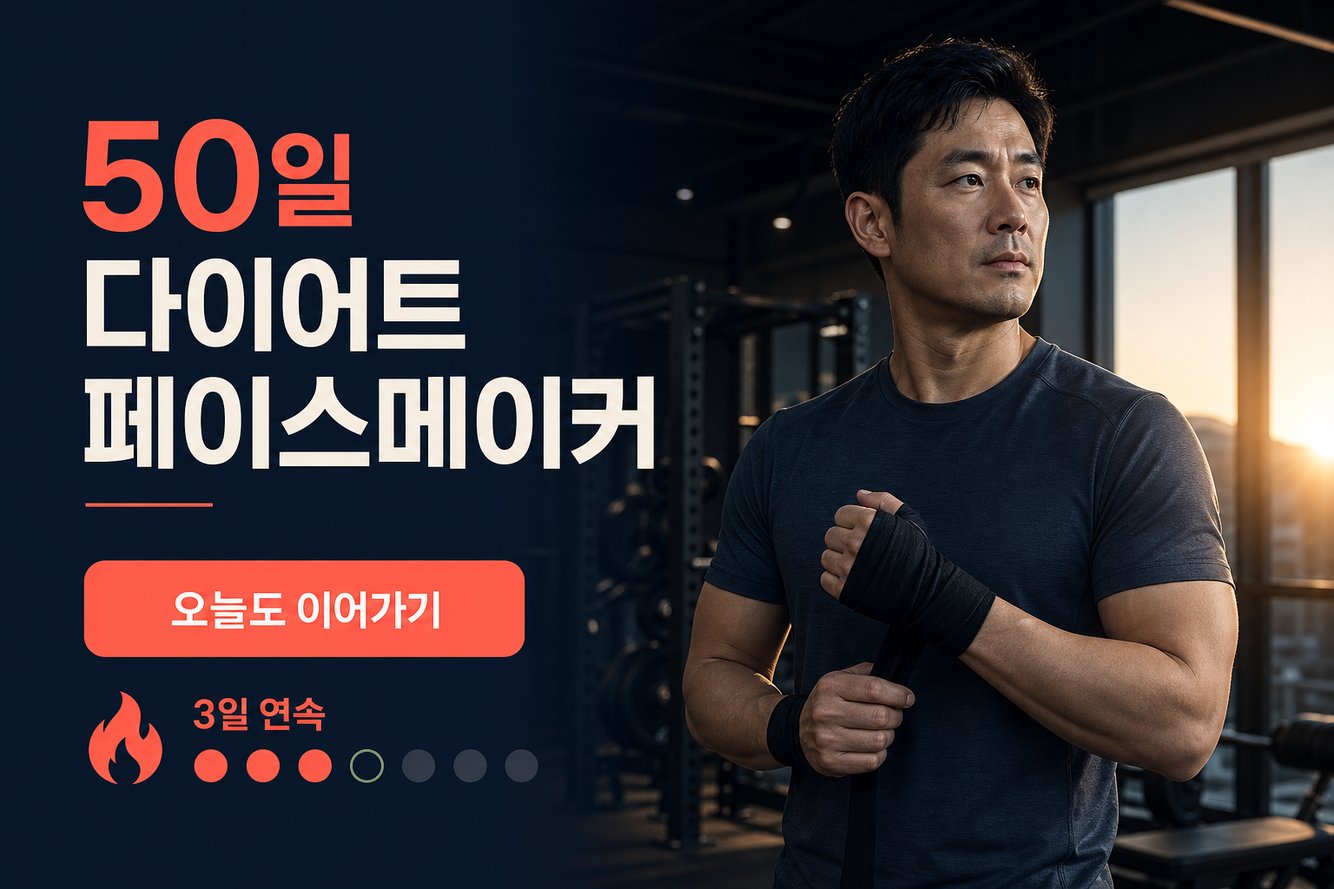
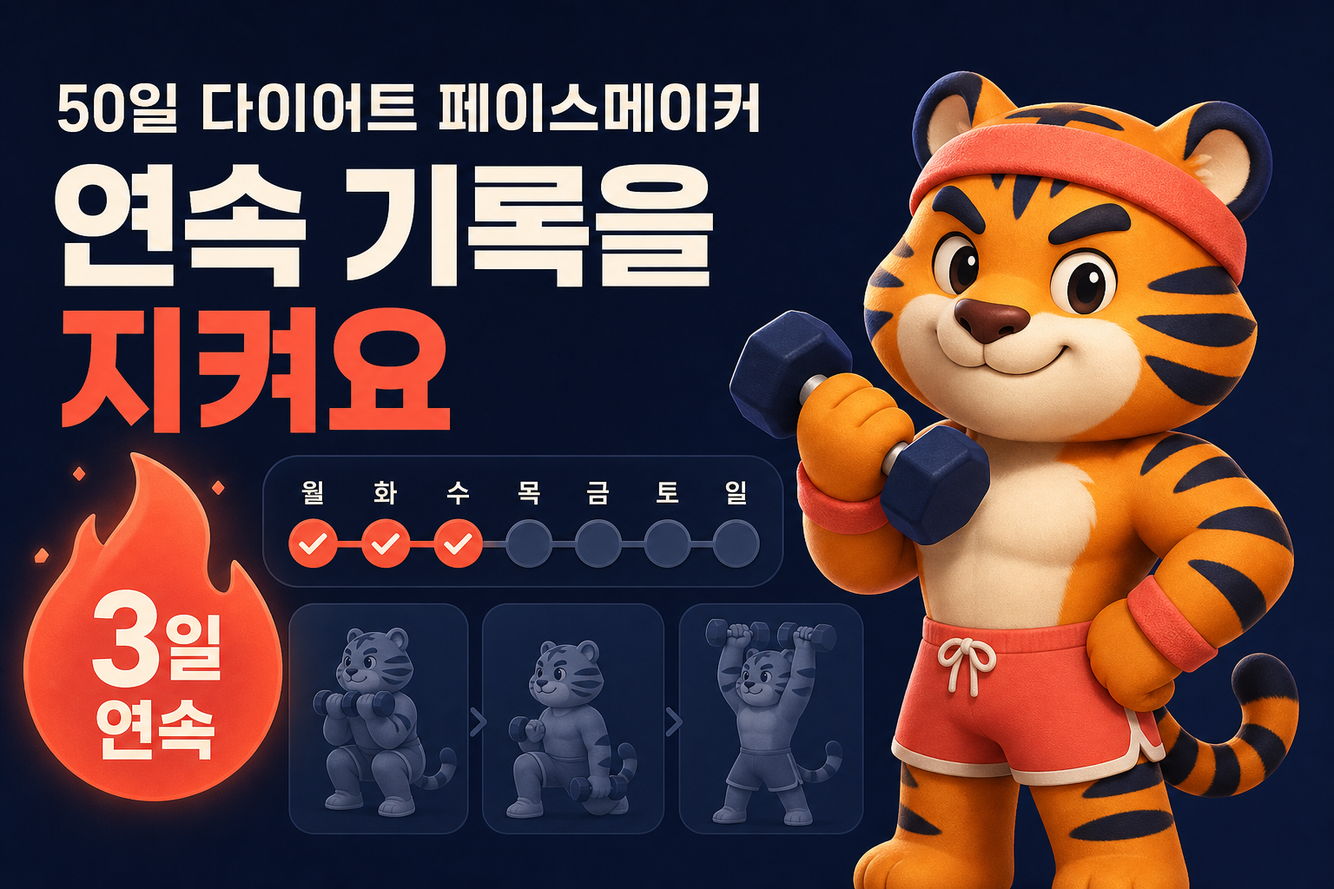
Add time-aware coach and exercise form guides

diff --git a/app/page.tsx b/app/page.tsx
@@ -7,6 +7,7 @@ type Persona = "T" | "F";
 type WeightEntry = { day: number; weight: number };
 type LoadEntry = { day: number; name: string; kg: number };
 type Exercise = { name: string; detail: string; weighted?: boolean };
+type BodyStat = { date: string; day: number; weight: number; muscle: number; bodyFat: number; bmi: number };
 
 const INITIAL_WEIGHTS: WeightEntry[] = [
   { day: 1, weight: 74 }, { day: 3, weight: 73.7 }, { day: 5, weight: 73.5 },
@@ -45,9 +46,40 @@ const ROUTINES: Record<string, Exercise[]> = {
   ],
 };
 
+const OPTIONAL: Record<string, Exercise[]> = {
+  push: [
+    { name: "체스트 플라이", detail: "가볍게 3세트 × 12—15회", weighted: true },
+    { name: "사이드 레터럴 레이즈", detail: "반동 없이 3세트 × 12—15회", weighted: true },
+  ],
+  pull: [
+    { name: "페이스 풀", detail: "어깨 뒤쪽 3세트 × 12—15회", weighted: true },
+    { name: "백 익스텐션", detail: "허리 중립 3세트 × 12회" },
+  ],
+  legs: [
+    { name: "힙 어브덕션", detail: "둔근 집중 3세트 × 15회", weighted: true },
+    { name: "카프 레이즈", detail: "정점 정지 3세트 × 15회", weighted: true },
+  ],
+  pain: [
+    { name: "페이스 풀", detail: "앉아서 3세트 × 15회", weighted: true },
+    { name: "데드버그", detail: "천천히 좌우 10회 × 3세트" },
+  ],
+};
+
+const EXERCISE_GUIDES: Record<string, { image: string; focus: string; steps: string[]; caution: string }> = {
+  벤치프레스: { image: "/exercise-bench-press.png", focus: "가슴 · 삼두 · 전면 어깨", steps: ["눈이 바 아래 오도록 눕고 발·엉덩이·등·머리를 안정시켜요.", "어깨뼈를 뒤와 아래로 고정하고 바를 가슴 중앙으로 천천히 내려요.", "손목 아래에 팔꿈치를 두고 발로 바닥을 밀며 곧게 올려요."], caution: "엄지까지 감싼 그립을 쓰고, 어깨가 들리거나 엉덩이가 뜨면 중량을 낮추세요." },
+  숄더프레스: { image: "/exercise-shoulder-press.png", focus: "어깨 · 삼두", steps: ["손잡이가 어깨 높이에 오도록 좌석을 맞추고 등을 붙여요.", "손목과 팔꿈치를 수직으로 두고 머리 위로 부드럽게 밀어요.", "허리를 과하게 꺾지 말고 팔꿈치를 잠그기 직전에 멈춰요."], caution: "목 뒤로 밀지 말고 통증 없는 범위에서만 움직이세요." },
+  랫풀다운: { image: "/exercise-lat-pulldown.png", focus: "광배근 · 등", steps: ["허벅지 패드를 고정하고 배에 힘을 준 채 바를 잡아요.", "어깨를 먼저 아래로 내린 뒤 상체를 30도 이내로만 기울여요.", "바를 윗가슴 쪽으로 당기고 반동 없이 천천히 되돌려요."], caution: "바를 목 뒤로 당기거나 허리를 크게 젖히지 마세요." },
+  "시티드 로우": { image: "/exercise-seated-row.png", focus: "등 중앙 · 광배근", steps: ["무릎을 살짝 굽히고 허리를 중립으로 세워 손잡이를 잡아요.", "몸통을 고정한 채 팔꿈치를 뒤로 보내며 아랫가슴 쪽으로 당겨요.", "등을 둥글게 말지 않고 팔을 천천히 펴며 돌아가요."], caution: "몸을 앞뒤로 흔들어 중량을 당기지 마세요." },
+  레그프레스: { image: "/exercise-leg-press.png", focus: "대퇴사두근 · 둔근", steps: ["발을 어깨너비로 놓고 허리와 골반을 패드에 붙여요.", "무릎이 발끝 방향을 따라가게 하며 약 90도까지 천천히 내려요.", "발바닥 전체로 밀고 무릎이 완전히 잠기기 전에 멈춰요."], caution: "골반이 말려 들리거나 무릎이 안쪽으로 모이면 가동범위와 중량을 줄이세요." },
+  레그익스텐션: { image: "/exercise-leg-extension.png", focus: "대퇴사두근", steps: ["기구 회전축과 무릎 관절을 맞추고 패드를 발목 위에 놓아요.", "등을 붙인 채 정강이 패드를 부드럽게 들어 올려요.", "무릎을 세게 잠그지 않고 정점에서 멈춘 뒤 천천히 내려요."], caution: "무릎 앞쪽 통증이 있으면 중량과 가동범위를 즉시 줄이세요." },
+  레그컬: { image: "/exercise-leg-curl.png", focus: "햄스트링", steps: ["기구 회전축과 무릎을 맞추고 허벅지 패드를 고정해요.", "엉덩이가 들리지 않게 발꿈치를 아래와 뒤로 당겨요.", "가장 깊은 편안한 지점에서 멈춘 뒤 천천히 되돌려요."], caution: "반동을 쓰거나 허리를 과하게 꺾지 마세요." },
+};
+
 const DEFAULT_LOADS: Record<string, number> = {
   벤치프레스: 40, 숄더프레스: 20, 랫풀다운: 40, "시티드 로우": 35,
   레그프레스: 80, 레그익스텐션: 25, 레그컬: 25,
+  "체스트 플라이": 25, "사이드 레터럴 레이즈": 5, "페이스 풀": 20,
+  "힙 어브덕션": 30, "카프 레이즈": 40,
 };
 
 const DAILY = [
@@ -101,6 +133,10 @@ export default function Home() {
   const [freezePasses, setFreezePasses] = useState(1);
   const [activeDates, setActiveDates] = useState<string[]>([daysAgo(3), daysAgo(2), daysAgo(1)]);
   const [dailyOpen, setDailyOpen] = useState(false);
+  const [selectedGuide, setSelectedGuide] = useState<string | null>(null);
+  const [hour, setHour] = useState(9);
+  const [bodyStats, setBodyStats] = useState<BodyStat[]>([]);
+  const [bodyForm, setBodyForm] = useState({ weight: "71.8", muscle: "30.0", bodyFat: "22.0" });
   const [hydrated, setHydrated] = useState(false);
 
   const today = dateKey();
@@ -122,6 +158,7 @@ export default function Home() {
         setStreak(parsed.streak ?? 3);
         setFreezePasses(parsed.freezePasses ?? 1);
         setActiveDates(parsed.activeDates?.length ? parsed.activeDates : [daysAgo(3), daysAgo(2), daysAgo(1)]);
+        setBodyStats(parsed.bodyStats ?? []);
 
         const dates: string[] = parsed.activeDates ?? [];
         const last = [...dates].sort().at(-1);
@@ -135,13 +172,19 @@ export default function Home() {
       } catch { /* Keep safe defaults. */ }
     }
     if (localStorage.getItem("pace50-inspiration-date") !== today) setDailyOpen(true);
+    setHour(new Date().getHours());
     setHydrated(true);
   }, [today]);
 
   useEffect(() => {
+    const timer = window.setInterval(() => setHour(new Date().getHours()), 60_000);
+    return () => window.clearInterval(timer);
+  }, []);
+
+  useEffect(() => {
     if (!hydrated) return;
-    localStorage.setItem(STORAGE_KEY, JSON.stringify({ day, weights, travelMode, checks, nextPersona, loadHistory, loadInputs, streak, freezePasses, activeDates }));
-  }, [day, weights, travelMode, checks, nextPersona, loadHistory, loadInputs, streak, freezePasses, activeDates, hydrated]);
+    localStorage.setItem(STORAGE_KEY, JSON.stringify({ day, weights, travelMode, checks, nextPersona, loadHistory, loadInputs, streak, freezePasses, activeDates, bodyStats }));
+  }, [day, weights, travelMode, checks, nextPersona, loadHistory, loadInputs, streak, freezePasses, activeDates, bodyStats, hydrated]);
 
   const stageIndex = stageForDay(day);
   const currentWeight = weights.at(-1)?.weight ?? 74;
@@ -152,6 +195,7 @@ export default function Home() {
   const routineKind = cycleDay === 1 || cycleDay === 4 ? "push" : cycleDay === 2 || cycleDay === 5 ? "pull" : "legs";
   const routineLabel = routineKind === "push" ? "가슴 / 어깨" : routineKind === "pull" ? "등 / 코어" : "하체";
   const exercises = painMode ? ROUTINES.pain : ROUTINES[routineKind];
+  const optionalExercises = painMode ? OPTIONAL.pain : OPTIONAL[routineKind];
   const cardio: Exercise[] = painMode
     ? [{ name: "좌식 사이클", detail: "20분 · 통증 없는 강도" }]
     : [{ name: "천국의 계단", detail: "15분" }, { name: "런닝머신 걷기", detail: "15분" }];
@@ -178,6 +222,16 @@ export default function Home() {
     const history = loadHistory.filter((item) => item.name === name).sort((a, b) => a.day - b.day);
     return { name, first: history.at(0)?.kg, latest: history.at(-1)?.kg, count: history.length };
   }).filter((item) => item.count > 0);
+
+  const mascot = hour < 12
+    ? { state: "morning", label: "오전 코치", message: "좋은 아침! 체중만 먼저 기록하면 오늘 불꽃은 금방 지킬 수 있어요." }
+    : hour < 19
+      ? { state: "afternoon", label: "오후 코치", message: "아직 충분해요. 운동 한 세트만 시작하면 흐름이 다시 붙어요!" }
+      : hour < 22
+        ? { state: "night", label: "저녁 코치", message: "오늘이 얼마 안 남았어요. 딱 하나만 체크하고 편하게 쉬어요." }
+        : { state: "night urgent", label: "자정 임박", message: `제발… 자정 전에 하나만 기록해 주세요. 연속 ${streak}일을 잃을 순 없어요!` };
+  const guide = selectedGuide ? EXERCISE_GUIDES[selectedGuide] : null;
+  const bodyBmi = Number(bodyForm.weight) > 0 ? Number(bodyForm.weight) / (1.72 * 1.72) : 0;
 
   function markToday() {
     if (todayComplete) return;
@@ -236,6 +290,21 @@ export default function Home() {
     }
   }
 
+  function saveBodyStat(event: FormEvent) {
+    event.preventDefault();
+    const weight = Number(bodyForm.weight);
+    const muscle = Number(bodyForm.muscle);
+    const bodyFat = Number(bodyForm.bodyFat);
+    if (weight < 40 || weight > 150 || muscle < 10 || muscle > 80 || bodyFat < 3 || bodyFat > 60) {
+      setModal({ persona: "T", eyebrow: "주간 측정 확인", title: "수치를 다시 확인해 주세요", body: "체중 40—150kg, 근육량 10—80kg, 체지방률 3—60% 범위로 입력해 주세요." });
+      return;
+    }
+    const entry: BodyStat = { date: today, day, weight, muscle, bodyFat, bmi: weight / (1.72 * 1.72) };
+    setBodyStats((items) => [...items.filter((item) => item.date !== today), entry].sort((a, b) => a.date.localeCompare(b.date)));
+    markToday();
+    openCoach("주간 체성분 기록 완료", `BMI ${entry.bmi.toFixed(1)}, 근육량 ${muscle.toFixed(1)}kg, 체지방률 ${bodyFat.toFixed(1)}%를 저장했습니다. 주간 간격의 같은 조건 측정이 변화 확인에 유리합니다.`, "이번 주의 몸을 있는 그대로 기록했어요. 숫자는 평가가 아니라 다음 선택을 위한 지도예요.");
+  }
+
   return (
     <main className={travelMode ? "app travel-on" : "app"}>
       {travelMode && <div className="travel-banner"><span>여행 모드 · 오늘의 목표는 유지</span><strong>한 끼에 즐거움 하나</strong></div>}
@@ -262,11 +331,12 @@ export default function Home() {
           </section>
 
           <section className={todayComplete ? "streak-panel safe" : "streak-panel"} id="streak">
-            <div className="streak-flame">🔥</div>
+            <div className={`mascot-art ${mascot.state}`} role="img" aria-label={`${mascot.label} 호랑이 헬스 코치`} />
             <div className="streak-copy">
-              <p>연속 기록</p>
+              <p>🔥 {mascot.label} · 연속 기록</p>
               <h2>{todayComplete ? `오늘도 지켰어요. ${streak}일 연속!` : `오늘 기록하지 않으면 연속 ${streak}일을 잃게 돼요.`}</h2>
-              <span>{todayComplete ? "작은 행동 하나가 오늘의 불꽃을 지켰습니다." : "체중 기록이나 운동 한 세트만 완료해도 유지됩니다."}</span>
+              <span className="mascot-message">“{todayComplete ? "역시 해낼 줄 알았어요. 내일도 이 불꽃 그대로 만나요!" : mascot.message}”</span>
+              <small>{todayComplete ? "작은 행동 하나가 오늘의 불꽃을 지켰습니다." : "체중 기록이나 운동 한 세트만 완료해도 유지됩니다."}</small>
             </div>
             <div className="week-dots">{weekly.map((item) => <div key={item.key} className={item.done ? "done" : item.key === today ? "today" : ""}><i>{item.done ? "✓" : ""}</i><span>{item.label}</span></div>)}</div>
             <div className="streak-side"><span>🧊 보호권 {freezePasses}개</span><button onClick={() => { setTab("today"); document.getElementById("weight")?.focus(); }}>{todayComplete ? "연속 기록 안전" : "체중 기록으로 지키기"}</button></div>
@@ -294,7 +364,15 @@ export default function Home() {
           <div className="page-title-row"><div><p className="kicker">WEEKLY 3-SPLIT · 6 DAYS</p><h1>오늘의 60분</h1><p>이전 중량을 그대로 불러옵니다. ±5kg로 조절하고 완료하면 자동 저장돼요.</p></div><div className="workout-day"><span>CYCLE</span><strong>{cycleDay}</strong><small>/ 6</small></div></div>
           <div className="routine-head"><div><span>{painMode ? "PAIN-SAFE ROUTINE" : `DAY ${cycleDay}`}</span><h2>{painMode ? "무릎 부담 없는 루틴" : routineLabel}</h2></div><button className={painMode ? "pain-button active" : "pain-button"} onClick={() => setPainMode((v) => !v)}><span>＋</span>{painMode ? "통증 모드 끄기" : "무릎 통증"}</button></div>
           {painMode && <div className="pain-notice"><b>체중이 실리는 동작을 뺐어요.</b><span>앉아서 하는 기구와 코어 위주로 편안하게 진행하세요.</span></div>}
-          <div className="routine-list"><p className="list-title"><span>STRENGTH</span><b>{exercises.length}개 동작</b></p>{exercises.map((exercise, index) => { const key = `${day}-${painMode ? "pain" : "normal"}-${exercise.name}`; return <ExerciseRow key={exercise.name} index={index + 1} exercise={exercise} checked={Boolean(checks[key])} kg={exercise.weighted ? currentLoad(exercise.name) : null} onAdjust={(delta) => adjustLoad(exercise.name, delta)} onToggle={() => toggleCheck(exercise)} />; })}<p className="list-title cardio-title"><span>CARDIO</span><b>{painMode ? "저충격" : "30분"}</b></p>{cardio.map((exercise, index) => { const key = `${day}-${painMode ? "pain" : "normal"}-${exercise.name}`; return <ExerciseRow key={exercise.name} index={exercises.length + index + 1} exercise={exercise} checked={Boolean(checks[key])} kg={null} onAdjust={() => {}} onToggle={() => toggleCheck(exercise)} />; })}</div>
+          <div className="routine-list">
+            <p className="list-title"><span>STRENGTH</span><b>{exercises.length}개 필수 동작 · 동작명을 누르면 자세 보기</b></p>
+            {exercises.map((exercise, index) => { const key = `${day}-${painMode ? "pain" : "normal"}-${exercise.name}`; return <ExerciseRow key={exercise.name} index={index + 1} exercise={exercise} checked={Boolean(checks[key])} kg={exercise.weighted ? currentLoad(exercise.name) : null} onAdjust={(delta) => adjustLoad(exercise.name, delta)} onToggle={() => toggleCheck(exercise)} onGuide={EXERCISE_GUIDES[exercise.name] ? () => setSelectedGuide(exercise.name) : undefined} />; })}
+            <p className="list-title cardio-title"><span>CARDIO</span><b>{painMode ? "저충격" : "30분"}</b></p>
+            {cardio.map((exercise, index) => { const key = `${day}-${painMode ? "pain" : "normal"}-${exercise.name}`; return <ExerciseRow key={exercise.name} index={exercises.length + index + 1} exercise={exercise} checked={Boolean(checks[key])} kg={null} onAdjust={() => {}} onToggle={() => toggleCheck(exercise)} />; })}
+            <p className="list-title optional-title"><span>OPTIONAL · 선택 운동</span><b>여유가 있는 날만 추가</b></p>
+            <div className="optional-note">필수 운동을 끝낸 뒤 1—2개만 골라 가볍게 수행하세요.</div>
+            {optionalExercises.map((exercise, index) => { const key = `${day}-${painMode ? "pain" : "normal"}-${exercise.name}`; return <ExerciseRow key={exercise.name} index={index + 1} exercise={exercise} checked={Boolean(checks[key])} kg={exercise.weighted ? currentLoad(exercise.name) : null} onAdjust={(delta) => adjustLoad(exercise.name, delta)} onToggle={() => toggleCheck(exercise)} optional />; })}
+          </div>
           <div className="workout-footer"><div><strong>{completed}</strong><span>/ {allItems.length} 완료</span></div><div className="completion-track"><i style={{ width: `${completed / allItems.length * 100}%` }} /></div><button disabled={completed !== allItems.length} onClick={() => openCoach("운동 완료", "오늘 계획한 근력과 유산소를 모두 수행했습니다.", "오늘 60분을 끝냈어요. 아주 좋은 반복이에요.")}>{completed === allItems.length ? "운동 완료 · 코칭 받기" : `${allItems.length - completed}개 더 체크하세요`}</button></div>
         </section>}
 
@@ -303,23 +381,41 @@ export default function Home() {
           <div className="record-grid"><article className="record-table card"><div className="card-heading compact"><div><p className="section-label">WEIGHT LOG</p><h2>체중 기록</h2></div><span className="stage-pill">{weights.length}회</span></div><div className="table-head"><span>일차</span><span>체중</span><span>시작 대비</span></div>{[...weights].reverse().map((entry) => <div className="table-row" key={entry.day}><span>DAY {entry.day}</span><strong>{entry.weight.toFixed(1)} kg</strong><em>{(entry.weight - 74).toFixed(1)} kg</em></div>)}</article>
             <article className="rules-card card"><p className="section-label">STREAK SYSTEM</p><h2>연속성을 만드는 장치</h2><ol><li><span>🔥</span><div><b>{streak}일 연속 기록</b><p>하루 하나의 행동이면 불꽃이 이어집니다.</p></div></li><li><span>🧊</span><div><b>보호권 {freezePasses}개</b><p>딱 하루 놓치면 자동으로 연속 기록을 보호합니다.</p></div></li><li><span>✓</span><div><b>작게 시작하기</b><p>체중 기록이나 운동 한 세트만 해도 오늘은 성공.</p></div></li></ol></article>
             <article className="load-progress card"><div className="card-heading compact"><div><p className="section-label">STRENGTH PROGRESS</p><h2>들어 올린 무게의 성장</h2></div><span className="stage-pill">{loadHistory.length}세트 기록</span></div>{progressRows.length === 0 ? <div className="empty-progress"><strong>첫 중량을 기다리고 있어요.</strong><span>운동 탭에서 중량을 맞춘 뒤 완료 체크하면 여기에 성장 기록이 쌓입니다.</span></div> : <div className="load-table"><div className="load-head"><span>운동</span><span>첫 기록</span><span>최근</span><span>증가</span></div>{progressRows.map((row) => <div className="load-row" key={row.name}><b>{row.name}</b><span>{row.first}kg</span><strong>{row.latest}kg</strong><em>+{((row.latest ?? 0) - (row.first ?? 0)).toFixed(0)}kg</em></div>)}</div>}</article>
+            <article className="body-composition card">
+              <div className="card-heading compact"><div><p className="section-label">WEEKLY BODY CHECK</p><h2>주 1회 체성분 기록</h2></div><span className="stage-pill">BMI 자동 계산</span></div>
+              <div className="body-layout">
+                <form className="body-form" onSubmit={saveBodyStat}>
+                  <label><span>체중</span><div><input inputMode="decimal" value={bodyForm.weight} onChange={(e) => setBodyForm((v) => ({ ...v, weight: e.target.value }))} /><b>kg</b></div></label>
+                  <label><span>근육량</span><div><input inputMode="decimal" value={bodyForm.muscle} onChange={(e) => setBodyForm((v) => ({ ...v, muscle: e.target.value }))} /><b>kg</b></div></label>
+                  <label><span>체지방률</span><div><input inputMode="decimal" value={bodyForm.bodyFat} onChange={(e) => setBodyForm((v) => ({ ...v, bodyFat: e.target.value }))} /><b>%</b></div></label>
+                  <div className="bmi-preview"><span>172cm 기준 BMI</span><strong>{Number.isFinite(bodyBmi) ? bodyBmi.toFixed(1) : "—"}</strong><small>체중으로 자동 계산</small></div>
+                  <button type="submit">이번 주 기록 저장 <span>→</span></button>
+                </form>
+                <div className="body-history">
+                  <div className="body-head"><span>측정일</span><span>체중</span><span>근육</span><span>체지방</span><span>BMI</span></div>
+                  {bodyStats.length === 0 ? <div className="body-empty">아직 주간 기록이 없어요. 같은 요일·비슷한 조건으로 측정해 보세요.</div> : [...bodyStats].reverse().map((entry) => <div className="body-row" key={entry.date}><b>{entry.date.slice(5).replace("-", ".")}</b><span>{entry.weight.toFixed(1)}kg</span><span>{entry.muscle.toFixed(1)}kg</span><span>{entry.bodyFat.toFixed(1)}%</span><strong>{entry.bmi.toFixed(1)}</strong></div>)}
+                </div>
+              </div>
+            </article>
           </div>
         </section>}
       </section>
 
       <nav className="bottom-nav" aria-label="주 메뉴"><button className={tab === "today" ? "active" : ""} onClick={() => setTab("today")}><span className="nav-icon">●</span><b>오늘</b></button><button className={tab === "workout" ? "active" : ""} onClick={() => setTab("workout")}><span className="nav-icon">＋</span><b>운동</b>{completed > 0 && <i>{completed}</i>}</button><button className={tab === "records" ? "active" : ""} onClick={() => setTab("records")}><span className="nav-icon">▥</span><b>기록</b></button></nav>
 
-      {dailyOpen && <div className="daily-backdrop"><section className="daily-card" style={{ backgroundImage: `linear-gradient(90deg, rgba(10,17,31,.94), rgba(10,17,31,.18)), url(${daily.image})` }} role="dialog" aria-modal="true" aria-labelledby="daily-title"><div className="daily-streak">🔥 {streak}일 연속</div><div className="daily-content"><p>DAY {day} · 오늘의 한 문장</p><h2 id="daily-title">{daily.quote}</h2><span>{daily.cue}</span><button onClick={closeDaily}>오늘도 이어가기 <b>→</b></button><small>오늘 기록하지 않으면 연속 {streak}일을 잃게 돼요.</small></div></section></div>}
+      {guide && selectedGuide && <div className="guide-backdrop" onMouseDown={() => setSelectedGuide(null)}><section className="guide-modal" role="dialog" aria-modal="true" aria-labelledby="guide-title" onMouseDown={(e) => e.stopPropagation()}><button className="guide-close" onClick={() => setSelectedGuide(null)} aria-label="자세 가이드 닫기">×</button><div className="guide-heading"><div><p>FORM GUIDE · {guide.focus}</p><h2 id="guide-title">{selectedGuide} 올바른 순서</h2></div><span>3 STEP</span></div><img src={guide.image} alt={`${selectedGuide} 시작, 동작, 마무리 자세 순서`} /><ol>{guide.steps.map((step, index) => <li key={step}><b>0{index + 1}</b><span>{step}</span></li>)}</ol><div className="guide-caution"><strong>!</strong><span><b>안전 체크</b>{guide.caution}</span></div><button className="guide-confirm" onClick={() => setSelectedGuide(null)}>자세 확인했어요</button></section></div>}
+
+      {dailyOpen && <div className="daily-backdrop"><section className="daily-card" style={{ backgroundImage: `linear-gradient(90deg, rgba(10,17,31,.94), rgba(10,17,31,.18)), url(${daily.image})` }} role="dialog" aria-modal="true" aria-labelledby="daily-title"><div className="daily-top"><div className="daily-streak">🔥 {streak}일 연속</div><div className={`daily-mascot ${mascot.state}`} role="img" aria-label={`${mascot.label} 호랑이 코치`} /></div><div className="daily-content"><p>DAY {day} · {mascot.label}의 한 문장</p><h2 id="daily-title">{daily.quote}</h2><span>{todayComplete ? "오늘의 불꽃은 안전해요. 내일도 다시 만나요!" : mascot.message}</span><button onClick={closeDaily}>오늘도 이어가기 <b>→</b></button><small>오늘 기록하지 않으면 연속 {streak}일을 잃게 돼요.</small></div></section></div>}
 
       {modal && <div className="modal-backdrop" role="presentation" onMouseDown={() => setModal(null)}><section className={`coach-modal modal-${modal.persona.toLowerCase()}`} role="dialog" aria-modal="true" aria-labelledby="coach-title" onMouseDown={(e) => e.stopPropagation()}><button className="modal-close" onClick={() => setModal(null)} aria-label="코칭 닫기">×</button><div className="modal-persona">{modal.persona}</div><p>{modal.eyebrow}</p><h2 id="coach-title">{modal.title}</h2><blockquote>{modal.body}</blockquote><button className="modal-confirm" onClick={() => setModal(null)}>좋아요, 그렇게 할게요</button></section></div>}
     </main>
   );
 }
 
-function ExerciseRow({ index, exercise, checked, kg, onAdjust, onToggle }: { index: number; exercise: Exercise; checked: boolean; kg: number | null; onAdjust: (delta: number) => void; onToggle: () => void }) {
-  return <div className={checked ? "exercise-row checked" : "exercise-row"}>
+function ExerciseRow({ index, exercise, checked, kg, onAdjust, onToggle, onGuide, optional = false }: { index: number; exercise: Exercise; checked: boolean; kg: number | null; onAdjust: (delta: number) => void; onToggle: () => void; onGuide?: () => void; optional?: boolean }) {
+  return <div className={`${checked ? "exercise-row checked" : "exercise-row"}${optional ? " optional" : ""}`}>
     <span className="exercise-index">{String(index).padStart(2, "0")}</span>
-    <span className="exercise-copy"><b>{exercise.name}</b><small>{exercise.detail}</small>{kg !== null && <em>완료하면 {kg}kg로 기록</em>}</span>
+    <span className="exercise-copy"><button className={onGuide ? "exercise-name has-guide" : "exercise-name"} onClick={onGuide} disabled={!onGuide}>{exercise.name}{onGuide && <i>자세 보기 →</i>}</button><small>{exercise.detail}</small>{kg !== null && <em>완료하면 {kg}kg로 기록</em>}</span>
     {kg !== null && <div className="load-stepper" aria-label={`${exercise.name} 중량`}><button onClick={() => onAdjust(-5)} aria-label="5kg 줄이기">−</button><strong>{kg}<small>kg</small></strong><button onClick={() => onAdjust(5)} aria-label="5kg 늘리기">＋</button></div>}
     <button className="check-circle" onClick={onToggle} aria-pressed={checked} aria-label={`${exercise.name} 완료`}>{checked ? "✓" : ""}</button>
   </div>;

diff --git a/app/globals.css b/app/globals.css
@@ -235,6 +235,7 @@ button:focus-visible, input:focus-visible, a:focus-visible { outline: 3px solid 
 .daily-backdrop { position: fixed; inset: 0; z-index: 100; display: grid; place-items: center; padding: 22px; background: rgba(8,14,26,.84); backdrop-filter: blur(7px); }
 .daily-card { width: min(940px, 100%); min-height: min(670px, calc(100vh - 44px)); padding: 50px; background-size: cover; background-position: center; color: white; box-shadow: 0 35px 100px rgba(0,0,0,.5); display: flex; flex-direction: column; justify-content: space-between; animation: daily-in .42s cubic-bezier(.2,.8,.2,1) both; }
 .daily-streak { width: fit-content; border: 1px solid rgba(255,255,255,.35); background: rgba(10,17,31,.45); backdrop-filter: blur(8px); padding: 9px 13px; font-size: 11px; font-weight: 900; }
+.daily-top { display: flex; align-items: flex-start; justify-content: space-between; }.daily-mascot { width: 115px; height: 150px; margin: -22px -18px 0 0; background-image: url('/coach-tiger-sprite.png'); background-size: 300% 100%; background-repeat: no-repeat; background-position: 0 center; filter: drop-shadow(0 12px 17px rgba(0,0,0,.32)); }.daily-mascot.afternoon { background-position: 50% center; }.daily-mascot.night { background-position: 100% center; }.daily-mascot.urgent { animation: mascot-plead 1.25s ease-in-out infinite; }
 .daily-content { max-width: 570px; }.daily-content > p { color: var(--coral); font-size: 10px; font-weight: 900; letter-spacing: .15em; }.daily-content h2 { margin: 13px 0 19px; font-size: clamp(38px, 6vw, 68px); line-height: 1.15; letter-spacing: -.065em; word-break: keep-all; text-wrap: balance; }.daily-content > span { display: block; color: rgba(255,255,255,.75); font-size: 14px; line-height: 1.6; }
 .daily-content button { width: min(310px, 100%); height: 55px; margin-top: 31px; border: 0; background: var(--coral); color: var(--ink); padding: 0 19px; display: flex; align-items: center; justify-content: space-between; font-weight: 900; cursor: pointer; }.daily-content button b { font-size: 20px; }.daily-content small { display: block; margin-top: 12px; color: rgba(255,255,255,.63); font-size: 9px; }
 @keyframes daily-in { from { opacity: 0; transform: scale(.97) translateY(18px); } }
@@ -255,4 +256,65 @@ button:focus-visible, input:focus-visible, a:focus-visible { outline: 3px solid 
   .exercise-row { grid-template-columns: 37px 1fr 34px; gap: 9px; padding: 14px 0; }.exercise-copy { min-width: 0; }.exercise-copy b { font-size: 13px; }.load-stepper { grid-column: 2; grid-row: 2; width: 126px; }.check-circle { grid-column: 3; grid-row: 1 / 3; }
   .load-progress { padding: 24px 19px; }.load-head, .load-row { grid-template-columns: 1.4fr repeat(3, .8fr); font-size: 9px; }.load-row strong { font-size: 12px; }
   .daily-backdrop { padding: 0; }.daily-card { width: 100%; min-height: 100vh; padding: 29px 22px 42px; background-position: 63% center; }.daily-content h2 { font-size: 40px; }.daily-content > span { font-size: 12px; }.daily-content button { width: 100%; }
+  .daily-mascot { width: 94px; height: 125px; margin: -10px -9px 0 0; }
+}
+
+/* Readability pass */
+body { font-size: 16px; line-height: 1.58; }
+.kicker, .section-label { font-size: 12px; line-height: 1.35; }
+.milestone span, .milestone small { font-size: 10px; line-height: 1.35; }.milestone strong { font-size: 15px; }
+.coach-card p { font-size: 12px; }.coach-card h2 { font-size: clamp(19px, 2vw, 25px); }.coach-card { min-height: 144px; }
+.tiny-note, .stage-pill, .principles span, .defense-actions small, .page-title-row p:not(.kicker), .pain-notice, .exercise-copy small, .workout-footer span, .rules-card p { font-size: 12px; }
+.principles b, .defense-actions b, .rules-card b { font-size: 14px; }.mission-main span { font-size: 11px; }.mission-main strong { font-size: 18px; }
+.list-title, .list-title b { font-size: 11px; }.table-head { font-size: 11px; }.table-row { font-size: 13px; }.table-row strong { font-size: 15px; }
+.bottom-nav b { font-size: 13px; }.streak-chip b { font-size: 13px; }
+
+/* Time-aware original tiger coach */
+.streak-panel { min-height: 190px; padding: 22px 28px 18px 20px; grid-template-columns: 128px minmax(290px, 1.3fr) minmax(310px, 1fr) auto; border: 2px solid var(--coral); box-shadow: 0 16px 42px rgba(255,107,87,.14); }
+.streak-panel.safe { border-width: 2px; }
+.mascot-art { width: 118px; height: 150px; align-self: end; background-image: url('/coach-tiger-sprite.png'); background-size: 300% 100%; background-repeat: no-repeat; background-position: 0 center; filter: drop-shadow(0 8px 10px rgba(23,34,59,.12)); }
+.mascot-art.afternoon { background-position: 50% center; }.mascot-art.night { background-position: 100% center; }.mascot-art.urgent { animation: mascot-plead 1.25s ease-in-out infinite; }
+.streak-copy p { font-size: 12px; margin-bottom: 7px; }.streak-copy h2 { font-size: clamp(21px, 2.2vw, 28px); line-height: 1.28; color: #8f2415; }
+.streak-panel.safe .streak-copy h2 { color: #315f40; }
+.streak-copy .mascot-message { margin-top: 9px; color: var(--ink); font-size: 14px; font-weight: 750; line-height: 1.5; }.streak-copy small { display: block; margin-top: 5px; color: var(--muted); font-size: 11px; }
+.week-dots div { font-size: 10px; }.week-dots i { width: 32px; height: 32px; font-size: 13px; }.streak-side span { font-size: 11px; }.streak-side button { min-height: 44px; font-size: 11px; }
+@keyframes mascot-plead { 50% { transform: translateY(-4px) rotate(-1.5deg); } }
+
+/* Exercise selection and form guide */
+.exercise-row { min-height: 90px; cursor: default; }
+.exercise-name { border: 0; padding: 0; background: transparent; color: var(--ink); font-size: 16px; font-weight: 850; text-align: left; cursor: default; }
+.exercise-name.has-guide { cursor: pointer; }.exercise-name.has-guide:hover { color: var(--coral); }
+.exercise-name i { display: inline; margin-left: 10px; color: var(--coral); font-size: 10px; font-style: normal; text-decoration: none; }.exercise-copy small { margin-top: 5px; }.exercise-copy em { font-size: 10px; }
+.exercise-row.checked .exercise-name { text-decoration: line-through; color: #8b908d; }.exercise-row.optional { background: #faf8f2; }.exercise-row.optional .exercise-index { color: #6f9b62; }
+.optional-title { margin-top: 30px; border-top: 2px solid var(--ink); background: #f0f6ed; padding-inline: 12px; }.optional-note { padding: 13px 14px; color: #526151; background: #f0f6ed; border-bottom: 1px solid #d5e1cf; font-size: 12px; }
+.guide-backdrop { position: fixed; inset: 0; z-index: 90; background: rgba(9,15,27,.82); backdrop-filter: blur(6px); padding: 20px; display: grid; place-items: center; overflow-y: auto; }
+.guide-modal { width: min(920px, 100%); max-height: calc(100vh - 40px); overflow-y: auto; background: var(--white); padding: 34px; position: relative; box-shadow: 0 35px 90px rgba(0,0,0,.42); }
+.guide-close { position: absolute; right: 17px; top: 12px; z-index: 2; width: 38px; height: 38px; border: 0; border-radius: 50%; background: var(--ink); color: white; font-size: 22px; cursor: pointer; }
+.guide-heading { display: flex; justify-content: space-between; align-items: flex-end; gap: 18px; margin-bottom: 20px; padding-right: 45px; }.guide-heading p { margin: 0 0 6px; color: var(--coral); font-size: 11px; font-weight: 900; letter-spacing: .12em; }.guide-heading h2 { margin: 0; font-size: clamp(25px, 3.5vw, 38px); letter-spacing: -.05em; }.guide-heading > span { border: 1px solid var(--ink); padding: 6px 9px; font-size: 10px; font-weight: 900; white-space: nowrap; }
+.guide-modal > img { width: 100%; aspect-ratio: 3 / 1.38; object-fit: cover; display: block; background: #e9e6de; }
+.guide-modal ol { list-style: none; margin: 21px 0; padding: 0; display: grid; grid-template-columns: repeat(3, 1fr); gap: 13px; }.guide-modal li { min-height: 105px; border-top: 3px solid var(--coral); background: #f5f2eb; padding: 15px; display: flex; gap: 11px; }.guide-modal li b { color: var(--coral); font: 800 11px/1.5 var(--font-geist-mono); }.guide-modal li span { font-size: 13px; line-height: 1.55; word-break: keep-all; }
+.guide-caution { padding: 16px 18px; background: #fff0eb; display: flex; align-items: center; gap: 14px; }.guide-caution > strong { flex: 0 0 32px; width: 32px; height: 32px; border-radius: 50%; display: grid; place-items: center; background: var(--coral); }.guide-caution span, .guide-caution b { display: block; font-size: 12px; }.guide-caution b { margin-bottom: 3px; }.guide-confirm { width: 100%; height: 50px; margin-top: 15px; border: 0; background: var(--ink); color: white; font-size: 13px; font-weight: 850; cursor: pointer; }
+
+/* Weekly body composition */
+.body-composition { grid-column: 1 / -1; padding: 30px; }.body-layout { display: grid; grid-template-columns: minmax(330px, .75fr) minmax(440px, 1.25fr); gap: 30px; margin-top: 24px; }
+.body-form { display: grid; grid-template-columns: repeat(3, 1fr); gap: 11px; align-content: start; }.body-form label > span { display: block; margin-bottom: 7px; font-size: 11px; font-weight: 850; }.body-form label > div { height: 48px; display: flex; align-items: center; border: 1px solid var(--line); background: white; padding: 0 10px; }.body-form input { width: 100%; min-width: 0; border: 0; outline: 0; background: transparent; color: var(--ink); font-size: 19px; font-weight: 850; }.body-form label b { font-size: 10px; color: var(--muted); }
+.bmi-preview { grid-column: 1 / -1; min-height: 83px; background: var(--ink); color: white; padding: 15px 18px; display: grid; grid-template-columns: 1fr auto; align-items: center; }.bmi-preview span { font-size: 11px; font-weight: 800; }.bmi-preview strong { grid-row: span 2; font-size: 37px; color: var(--coral); letter-spacing: -.06em; }.bmi-preview small { color: #aeb4bf; font-size: 10px; }.body-form > button { grid-column: 1 / -1; height: 49px; border: 0; background: var(--coral); color: var(--ink); padding: 0 16px; display: flex; justify-content: space-between; align-items: center; font-size: 12px; font-weight: 900; cursor: pointer; }
+.body-history { border-top: 2px solid var(--ink); }.body-head, .body-row { display: grid; grid-template-columns: 1.15fr repeat(4, 1fr); align-items: center; min-height: 51px; border-bottom: 1px solid var(--line); font-size: 12px; }.body-head { min-height: 37px; color: var(--muted); font-size: 10px; }.body-row strong { color: var(--coral); font-size: 15px; }.body-empty { min-height: 150px; display: grid; place-items: center; text-align: center; color: var(--muted); background: #f5f2eb; padding: 25px; font-size: 12px; }
+
+@media (max-width: 1050px) {
+  .streak-panel { grid-template-columns: 110px 1fr auto; }.mascot-art { width: 105px; height: 138px; }.week-dots { grid-column: 2 / -1; }.streak-side { grid-row: 1; grid-column: 3; }
+  .body-layout { grid-template-columns: 1fr; }
+}
+
+@media (max-width: 800px) {
+  .streak-panel { grid-template-columns: 95px 1fr; }.mascot-art { width: 90px; height: 124px; }.streak-side { grid-row: auto; grid-column: 1 / -1; }.week-dots { grid-column: 1 / -1; }
+  .guide-modal ol { grid-template-columns: 1fr; }.guide-modal li { min-height: auto; }.guide-modal > img { aspect-ratio: 3 / 1.65; }
+}
+
+@media (max-width: 540px) {
+  body { font-size: 15px; }.kicker, .section-label { font-size: 11px; }
+  .streak-panel { min-height: 0; grid-template-columns: 86px 1fr; padding: 16px 15px 15px 8px; gap: 10px; }.mascot-art { width: 84px; height: 114px; }.streak-copy h2 { font-size: 19px; }.streak-copy .mascot-message { font-size: 12px; }.streak-copy p { font-size: 10px; }.streak-copy small { font-size: 10px; }.week-dots i { width: 30px; height: 30px; }
+  .exercise-row { grid-template-columns: 34px 1fr 34px; }.exercise-name { font-size: 15px; }.exercise-name i { display: block; margin: 3px 0 0; }.list-title b { max-width: 58%; text-align: right; line-height: 1.3; }
+  .guide-backdrop { padding: 0; }.guide-modal { width: 100%; max-height: 100vh; min-height: 100vh; padding: 25px 18px 34px; }.guide-heading { align-items: flex-start; }.guide-modal > img { aspect-ratio: 1.65 / 1; }.guide-heading h2 { font-size: 27px; }
+  .body-composition { padding: 24px 18px; }.body-form { grid-template-columns: 1fr; }.body-form label, .body-form > button, .bmi-preview { grid-column: 1; }.body-head, .body-row { grid-template-columns: 1.15fr repeat(4, .88fr); font-size: 10px; }.body-head { font-size: 9px; }
 }
